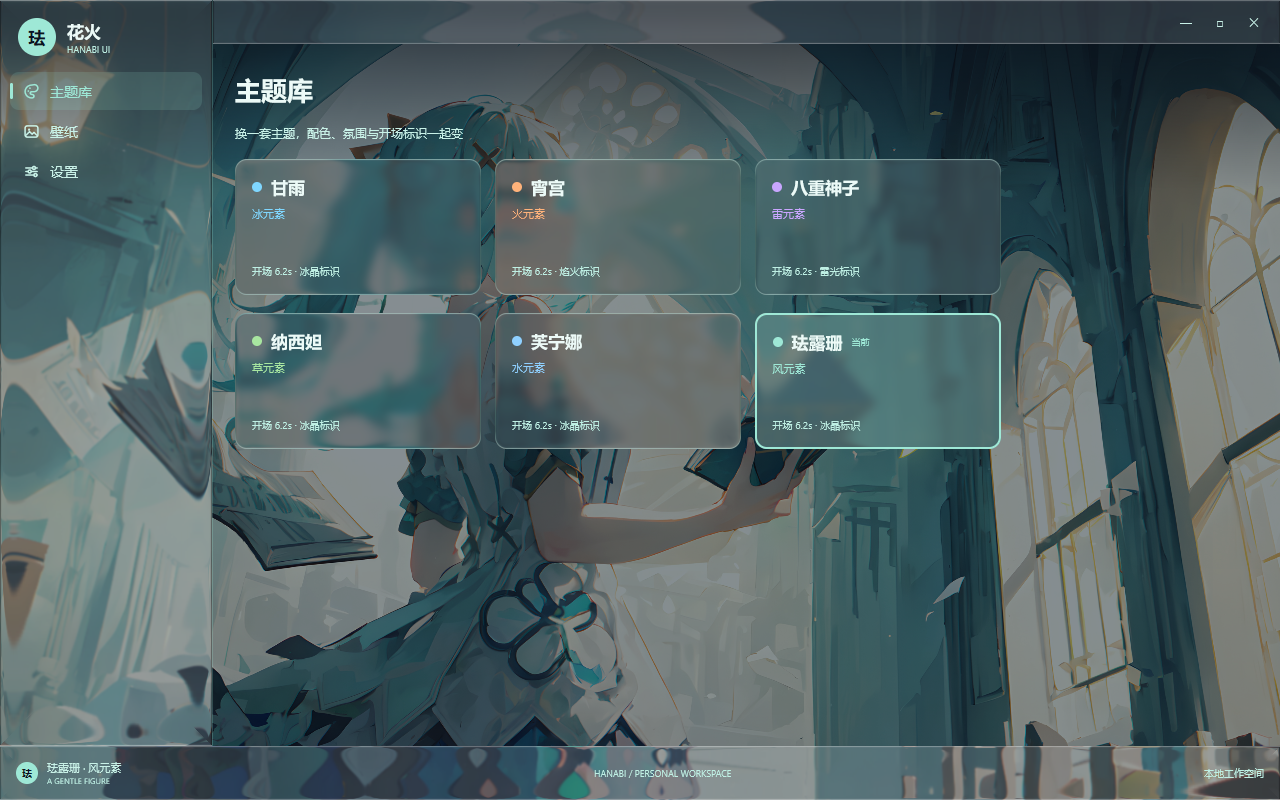
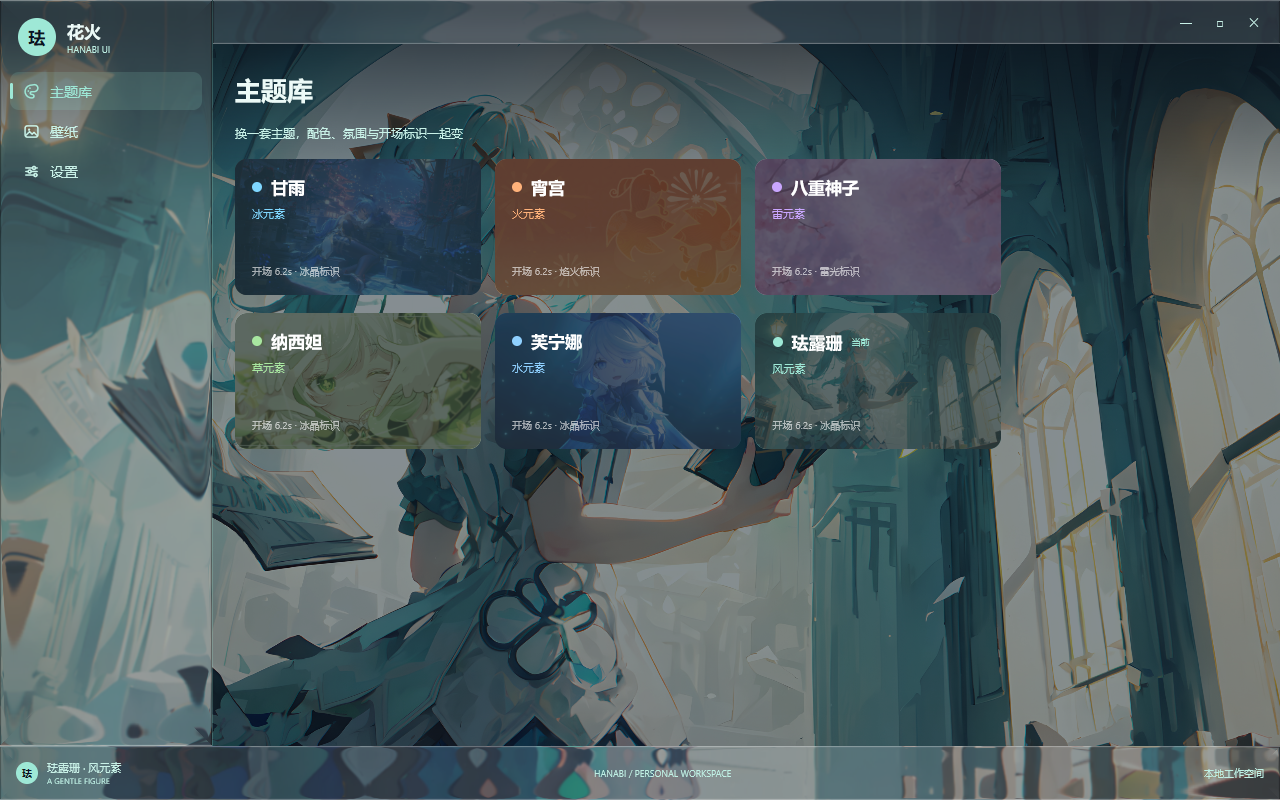
feat: 主题卡片改用壁纸缩略图
- 卡片铺各角色的壁纸缩略图（Cover 裁切 + 压暗 0.72 + 元素色薄染），
  六张卡片一眼能区分，选主题时先看得到主题
- assets.Thumb：现场解码后盒式降采样到 360 宽并单独缓存，
  避免主题库同时把六张 4K 原图解码进内存（约 200MB）
- 卡片不再使用 glass 材质（缩略图铺底后玻璃没有意义），侧栏与顶/底栏保留

Changed region(s): [[0.1562, 0.1875, 0.7812, 0.5625]]

diff --git a/internal/assets/assets.go b/internal/assets/assets.go
@@ -5,6 +5,11 @@
 package assets
 
 import (
+	"bytes"
+	"image"
+	"image/color"
+	_ "image/jpeg"
+	_ "image/png"
 	"os"
 	"path/filepath"
 	"sync"
@@ -58,6 +63,9 @@ func findAssetsDir() string {
 var (
 	mu    sync.Mutex
 	cache = map[string]*ui.Bitmap{}
+	// thumbs 单独一张缓存：缩略图体积小（每张几百 KB），可以长期留着，
+	// 主题库要同时显示六个角色，不能为此解码六张 4K 原图。
+	thumbs = map[string]*ui.Bitmap{}
 )
 
 // Bitmap 返回 assets/<rel> 解码后的位图，失败返回 nil（并记住失败，不重试）。
@@ -81,6 +89,34 @@ func Bitmap(rel string) *ui.Bitmap {
 	}
 	cache[rel] = bmp
 	return bmp
+}
+
+// Thumb 返回 assets/<rel> 的缩略图（宽度至多 maxW），失败返回 nil。
+//
+// 自己解码再降采样，而不是先 Bitmap 再缩放：缩略图只需要小尺寸，
+// 没必要为此把 4K 图整张解码进内存。
+func Thumb(rel string, maxW int) *ui.Bitmap {
+	mu.Lock()
+	defer mu.Unlock()
+
+	key := rel + "@" + itoa(maxW)
+	if b, ok := thumbs[key]; ok {
+		return b
+	}
+
+	data, err := os.ReadFile(filepath.Join(assetsDir, rel))
+	if err != nil {
+		thumbs[key] = nil
+		return nil
+	}
+	img, _, err := image.Decode(bytes.NewReader(data))
+	if err != nil {
+		thumbs[key] = nil
+		return nil
+	}
+	b := ui.NewBitmap(scaleDown(img, maxW))
+	thumbs[key] = b
+	return b
 }
 
 // Keep 只保留仍需要的位图，其余的释放像素并移出缓存。
@@ -108,4 +144,70 @@ func Keep(keys ...string) {
 		}
 		delete(cache, rel)
 	}
+}
+
+// scaleDown 用盒式平均把图缩到宽度 maxW（保持比例）。
+//
+// 只用在一处：主题库缩略图。降采样的质量在这里够用，也不想为此引入依赖。
+// image.RGBA 是预乘 alpha，At() 给出的也是预乘值，逐通道平均后写回即可。
+func scaleDown(src image.Image, maxW int) *image.RGBA {
+	b := src.Bounds()
+	sw, sh := b.Dx(), b.Dy()
+	if sw == 0 || sh == 0 {
+		return image.NewRGBA(image.Rect(0, 0, 1, 1))
+	}
+	if maxW > sw {
+		maxW = sw
+	}
+	w := maxW
+	h := sh * w / sw
+	if h < 1 {
+		h = 1
+	}
+
+	dst := image.NewRGBA(image.Rect(0, 0, w, h))
+	for y := 0; y < h; y++ {
+		y0 := b.Min.Y + y*sh/h
+		y1 := b.Min.Y + (y+1)*sh/h
+		if y1 <= y0 {
+			y1 = y0 + 1
+		}
+		for x := 0; x < w; x++ {
+			x0 := b.Min.X + x*sw/w
+			x1 := b.Min.X + (x+1)*sw/w
+			if x1 <= x0 {
+				x1 = x0 + 1
+			}
+			var sr, sg, sb, sa, n uint64
+			for yy := y0; yy < y1; yy++ {
+				for xx := x0; xx < x1; xx++ {
+					r, g, bl, a := src.At(xx, yy).RGBA()
+					sr, sg, sb, sa = sr+uint64(r), sg+uint64(g), sb+uint64(bl), sa+uint64(a)
+					n++
+				}
+			}
+			if n == 0 {
+				continue
+			}
+			dst.SetRGBA(x, y, color.RGBA{
+				R: uint8(sr / n >> 8), G: uint8(sg / n >> 8),
+				B: uint8(sb / n >> 8), A: uint8(sa / n >> 8),
+			})
+		}
+	}
+	return dst
+}
+
+func itoa(v int) string {
+	if v == 0 {
+		return "0"
+	}
+	var b [8]byte
+	i := len(b)
+	for v > 0 {
+		i--
+		b[i] = byte('0' + v%10)
+		v /= 10
+	}
+	return string(b[i:])
 }

diff --git a/internal/view/library.go b/internal/view/library.go
@@ -1,9 +1,9 @@
 package view
 
 import (
-	"github.com/egoist/mygo/plugins/glass"
 	"github.com/egoist/mygo/ui"
 
+	"bestuav-hanabi/internal/assets"
 	"bestuav-hanabi/internal/theme"
 )
 
@@ -26,20 +26,33 @@ func (a *App) libraryPage(c *ui.Context) {
 	}
 }
 
-// characterCard 单张角色卡片：毛玻璃底 + 元素色点，当前主题用元素色描边并加 tint。
+// characterCard 单张角色卡片：用该角色的壁纸做缩略图，压暗后叠文字。
+//
+// 主题库的卡片不追求"玻璃感"，而是要让人一眼看出这套主题长什么样——
+// 所以缩略图铺底，比半透明玻璃更能表达差异。
 func (a *App) characterCard(c *ui.Context, ch theme.Character) {
 	active := ch.ID == a.char.ID
 
-	// 毛玻璃材质：玻璃的底是壁纸，所以"选中"只能靠 Tint 与描边表达，不能换底色。
-	m := glass.Glass{Style: glass.Regular, Clarity: 0.45}
-	if active {
-		m.Tint = ch.Tok.Accent.Alpha(0.22)
-	}
 	card := ui.Column(c).Width(246).Height(136).Padding(16).Gap(8).
-		Radius(a.tok.Radius).Material(m).Border(1, a.tok.CardStroke)
+		Radius(a.tok.Radius).Background(a.tok.Card).Border(1, a.tok.CardStroke)
+
+	// 缩略图在自身背景之后、子元素之前绘制：先 Cover 裁切铺满，再压暗 + 元素色薄染。
+	card.Draw(func(p *ui.Painter, r ui.Rect) {
+		b := assets.Thumb(ch.Bg, 360)
+		if b == nil {
+			return
+		}
+		p.Clip(r, a.tok.Radius, func() {
+			p.Image(b, r, ui.Cover)
+		})
+		// 压暗：卡片上的文字必须能读（有的壁纸是浅色立绘）。
+		p.Fill(r, ui.RGBA(8, 12, 20, 0.72), a.tok.Radius)
+		// 元素色薄一层，六张卡片各有各的调子。
+		p.Fill(r, ch.Tok.Accent.Alpha(0.16), a.tok.Radius)
+	})
+
 	if card.Hovered() && !active {
-		m.Tint = ch.Tok.Accent.Alpha(0.15)
-		card.Material(m)
+		card.Border(1, ch.Tok.Accent.Alpha(0.75))
 	}
 	if active {
 		card.Border(1.5, ch.Tok.Accent)
@@ -50,16 +63,16 @@ func (a *App) characterCard(c *ui.Context, ch theme.Character) {
 
 	card.Children(func() {
 		ui.Row(c).Gap(9).AlignItems(ui.Center).Children(func() {
-			// 元素色点：一眼看出这套主题的强调色。
 			ui.Row(c).Width(10).Height(10).Radius(5).Background(ch.Tok.Accent)
-			ui.Text(c, ch.NameCN).FontSize(17).Bold().TextColor(a.tok.Text)
+			ui.Text(c, ch.NameCN).FontSize(17).Bold().TextColor(ui.Hex("#FFFFFF"))
 			if active {
 				ui.Text(c, "当前").FontSize(9).TextColor(ch.Tok.Accent)
 			}
 		})
 		ui.Text(c, ch.Element.Label()).FontSize(11).TextColor(ch.Tok.Accent)
 		ui.Spacer(c)
-		ui.Text(c, "开场 6.2s · "+motifName(ch.Motif)).FontSize(10).TextColor(a.tok.TextFaint)
+		ui.Text(c, "开场 6.2s · "+motifName(ch.Motif)).FontSize(10).
+			TextColor(ui.RGBA(255, 255, 255, 0.62))
 	})
 }
 

diff --git a/README.md b/README.md
@@ -25,8 +25,9 @@
   「Cover 铺满 + 随时间漂移的 UV 扰动 + 主题染色」，位移按图片空间计（窗口缩放观感一致），
   近景权重更大形成轻微景深；`Play` 参数可关闭动效。
 - **12fps 后台时钟**驱动壁纸（`Painter.AnimationFrameRate`，只重绘那一层、不重建元素树）
-- **毛玻璃**：卡片用 `glass.Regular`（Clarity 0.45）、侧栏与顶/底栏用 `glass.Clear`，
-  壁纸从玻璃下透出；悬停与选中都用 `Tint`（玻璃的底是壁纸，换底色会破坏玻璃感）
+- **毛玻璃**：侧栏与顶/底栏用 `glass.Clear` 与 `glass.Regular`，壁纸从玻璃下透出
+- **主题卡片用壁纸缩略图铺底**：Cover 裁切 + 压暗 0.72 + 元素色薄染，选中时元素色粗描边。
+  选主题时先看得到主题，而不是六张长得一样的玻璃卡
 - 顶部渐变压深带（170 DIP 渐隐到透明），让大标题压在花哨壁纸上仍清晰
 - 窗口 + 三栏布局 + 整宽底部状态栏
 
